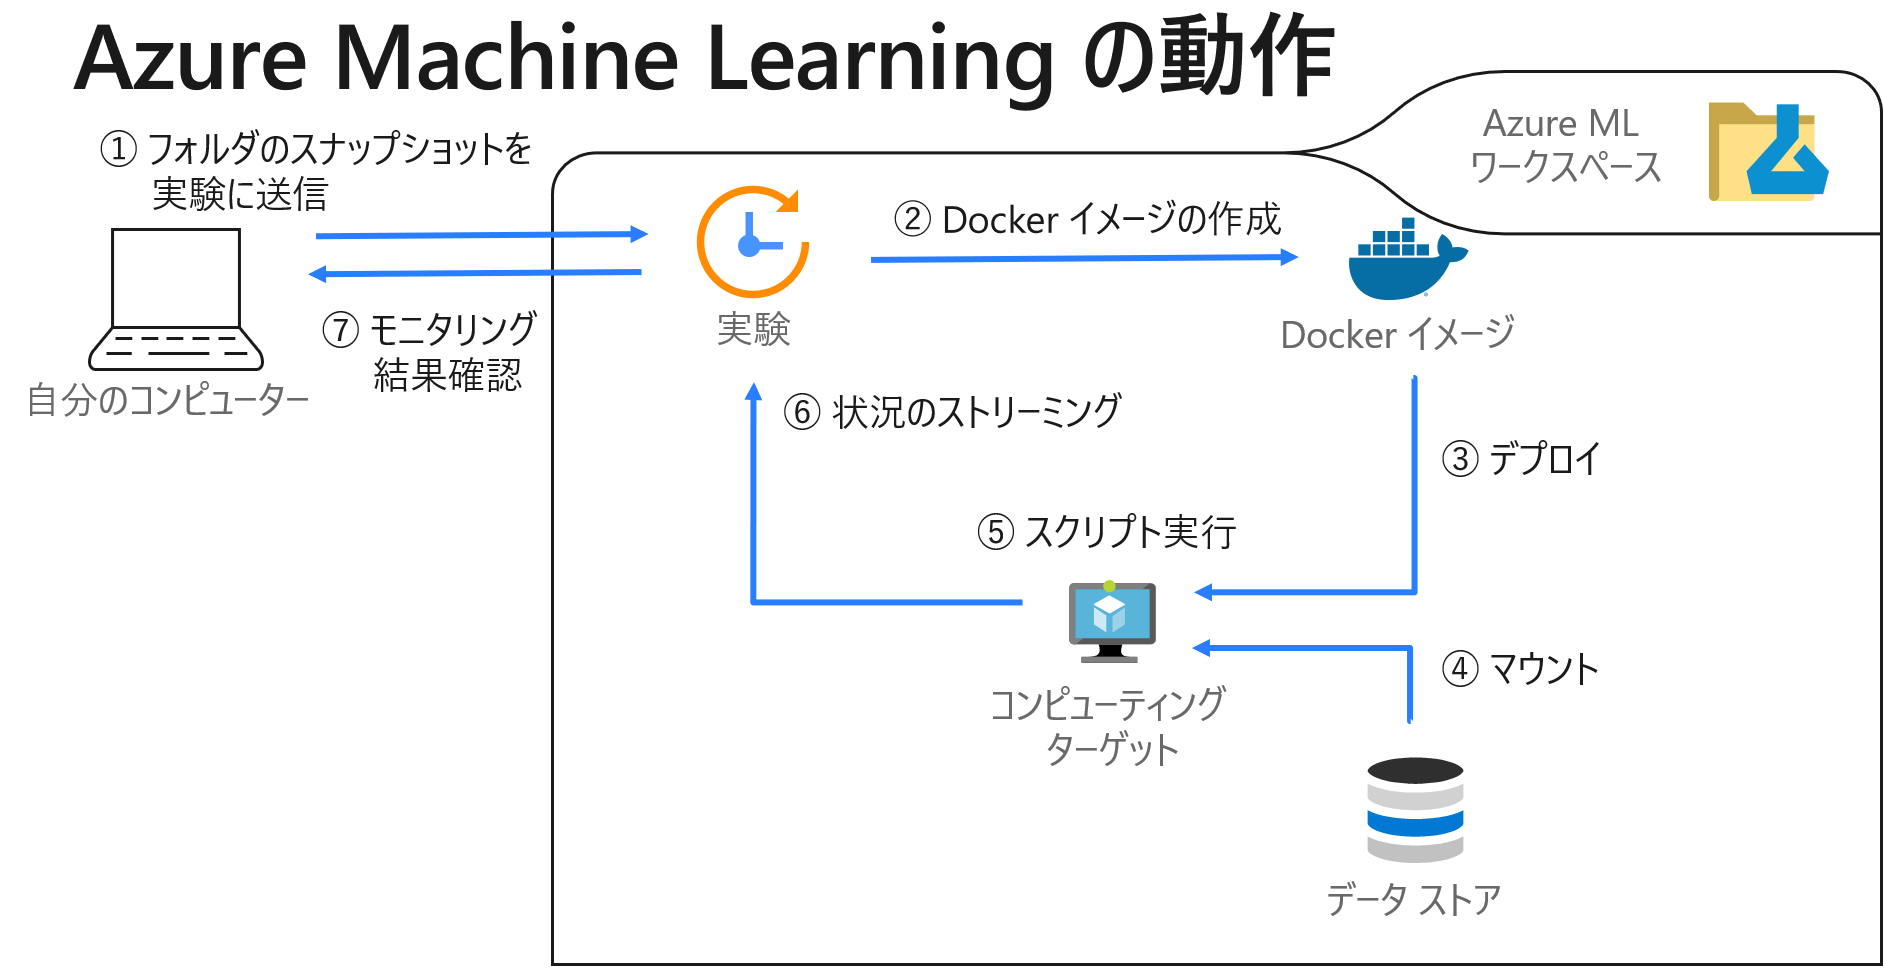
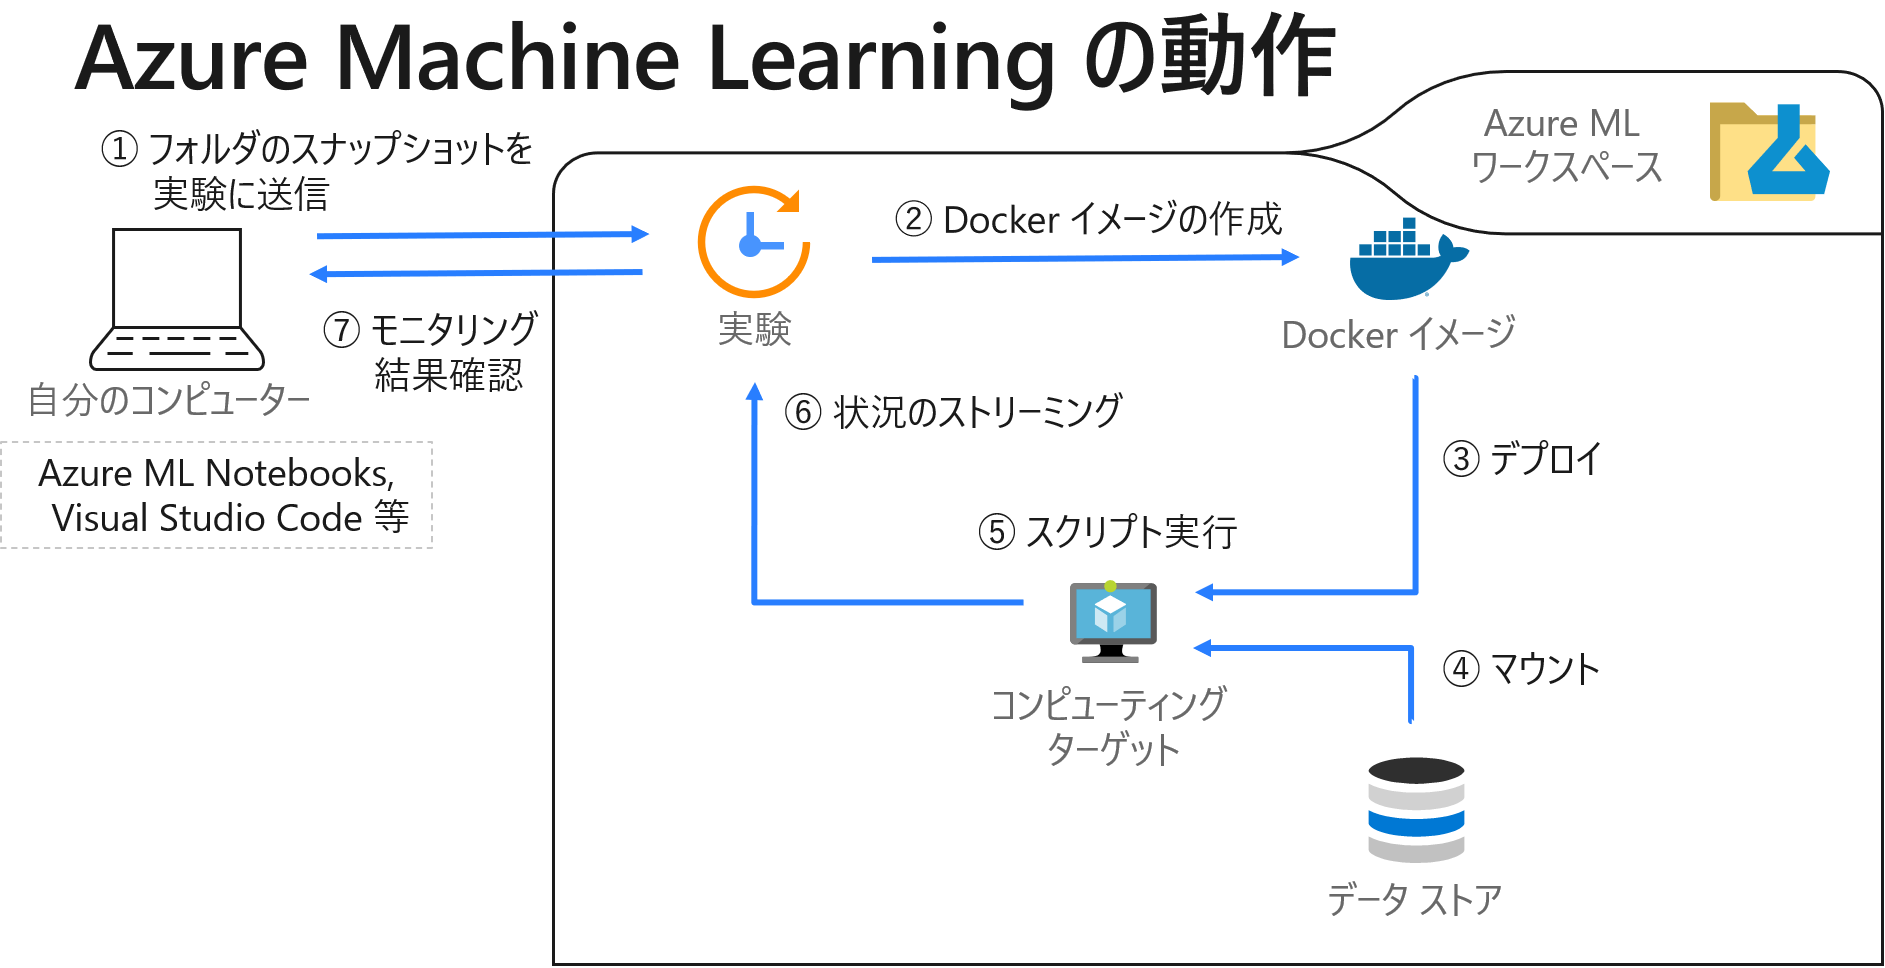
update images in readme

diff --git a/README.md b/README.md
@@ -2,6 +2,8 @@
 
 本コンテンツは、ローカルの Visual Studio Code (VSCode) 上から Azure Machine Learning を使用して PyTorch モデルでの画像分類を行うハンズオンコンテンツです。
 
+![](./img/environment_image.png)
+
 <br></br>
 
 ![](./img/AML_flow_image.png)
